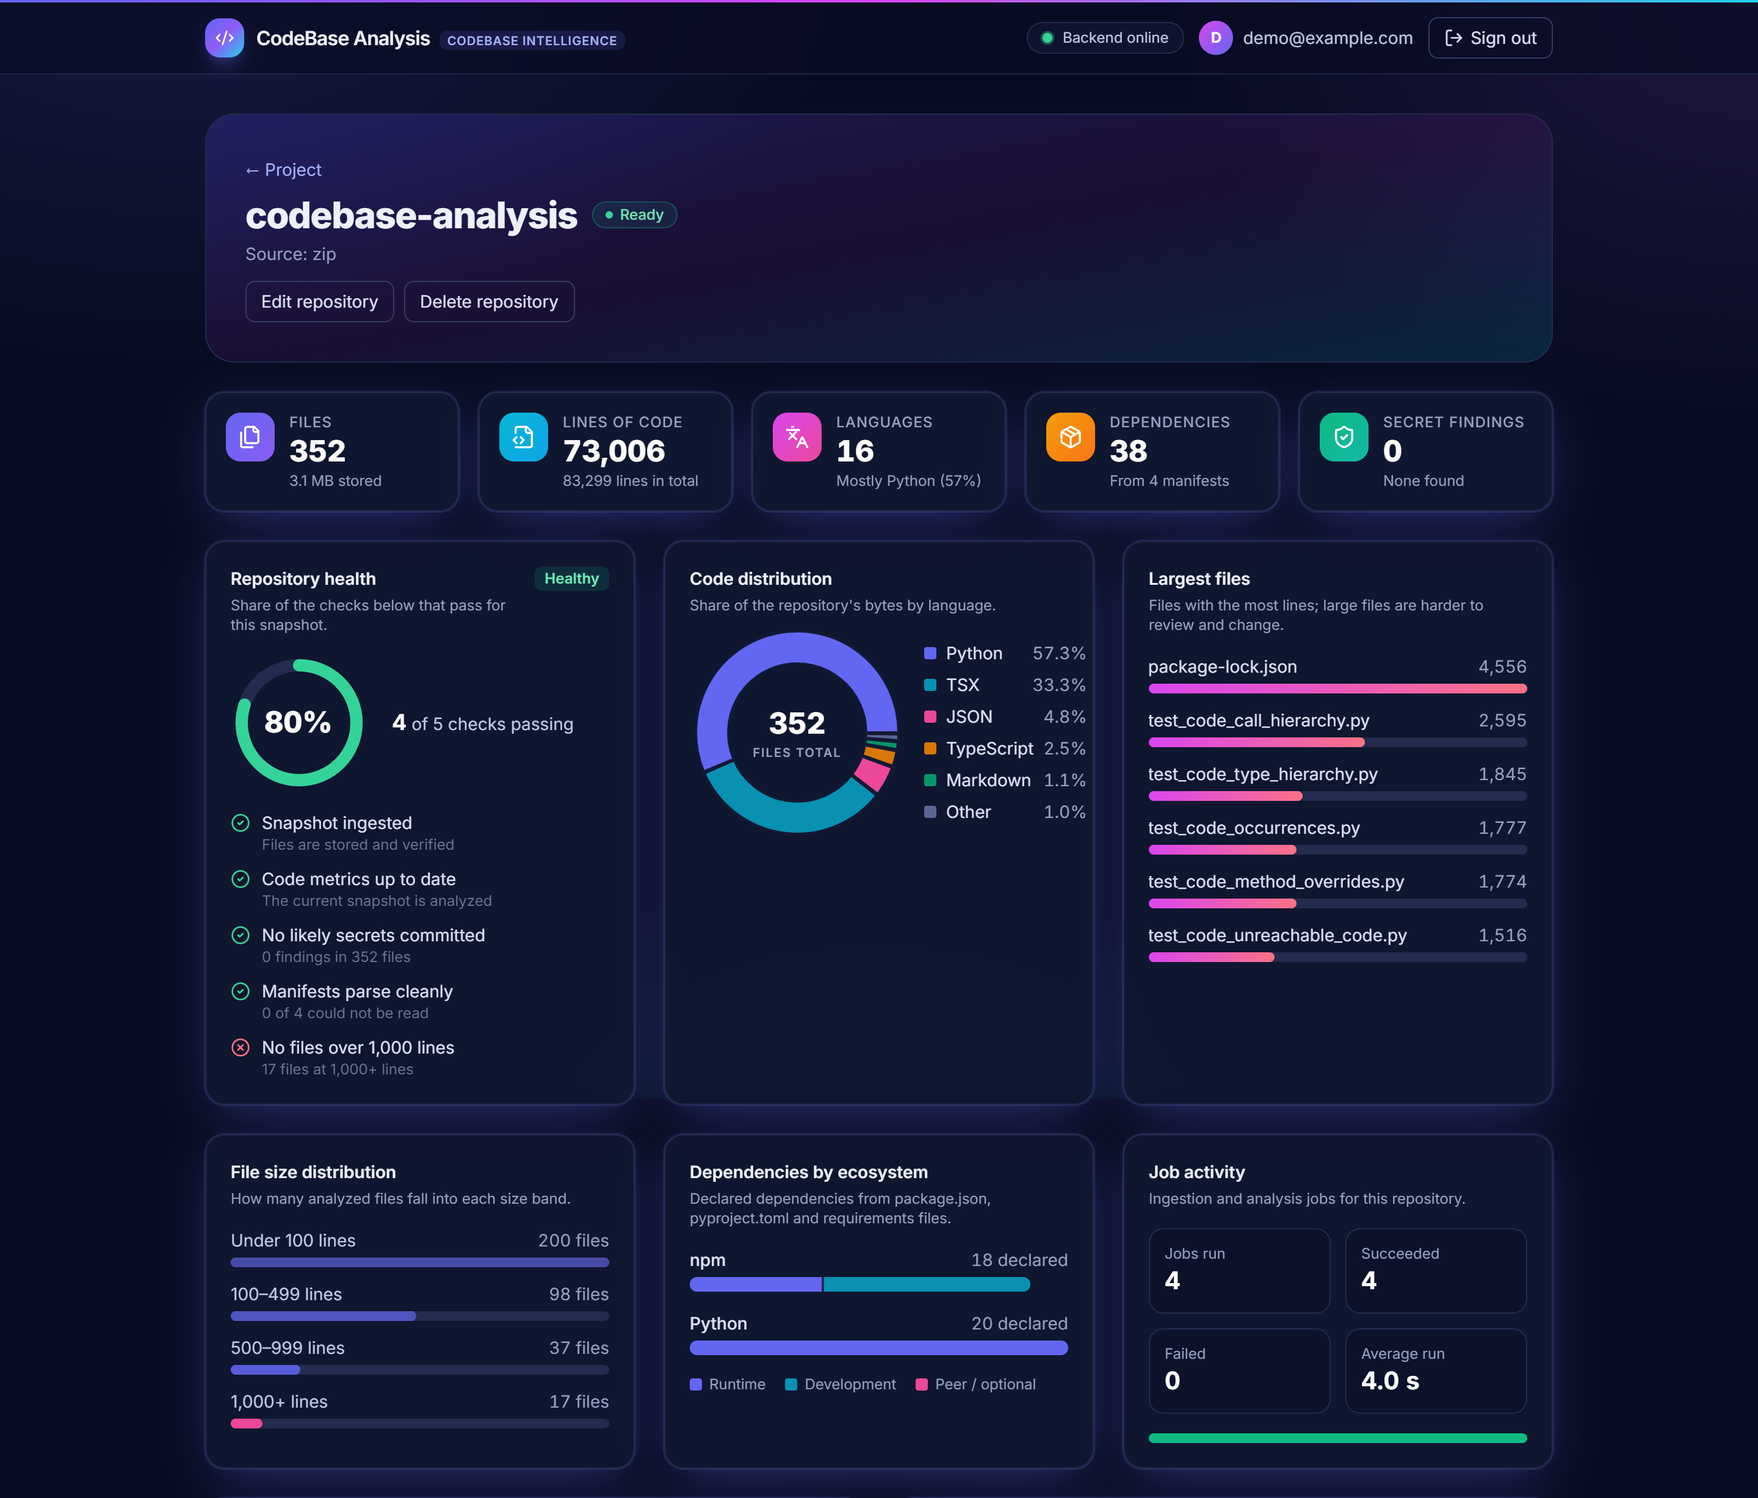
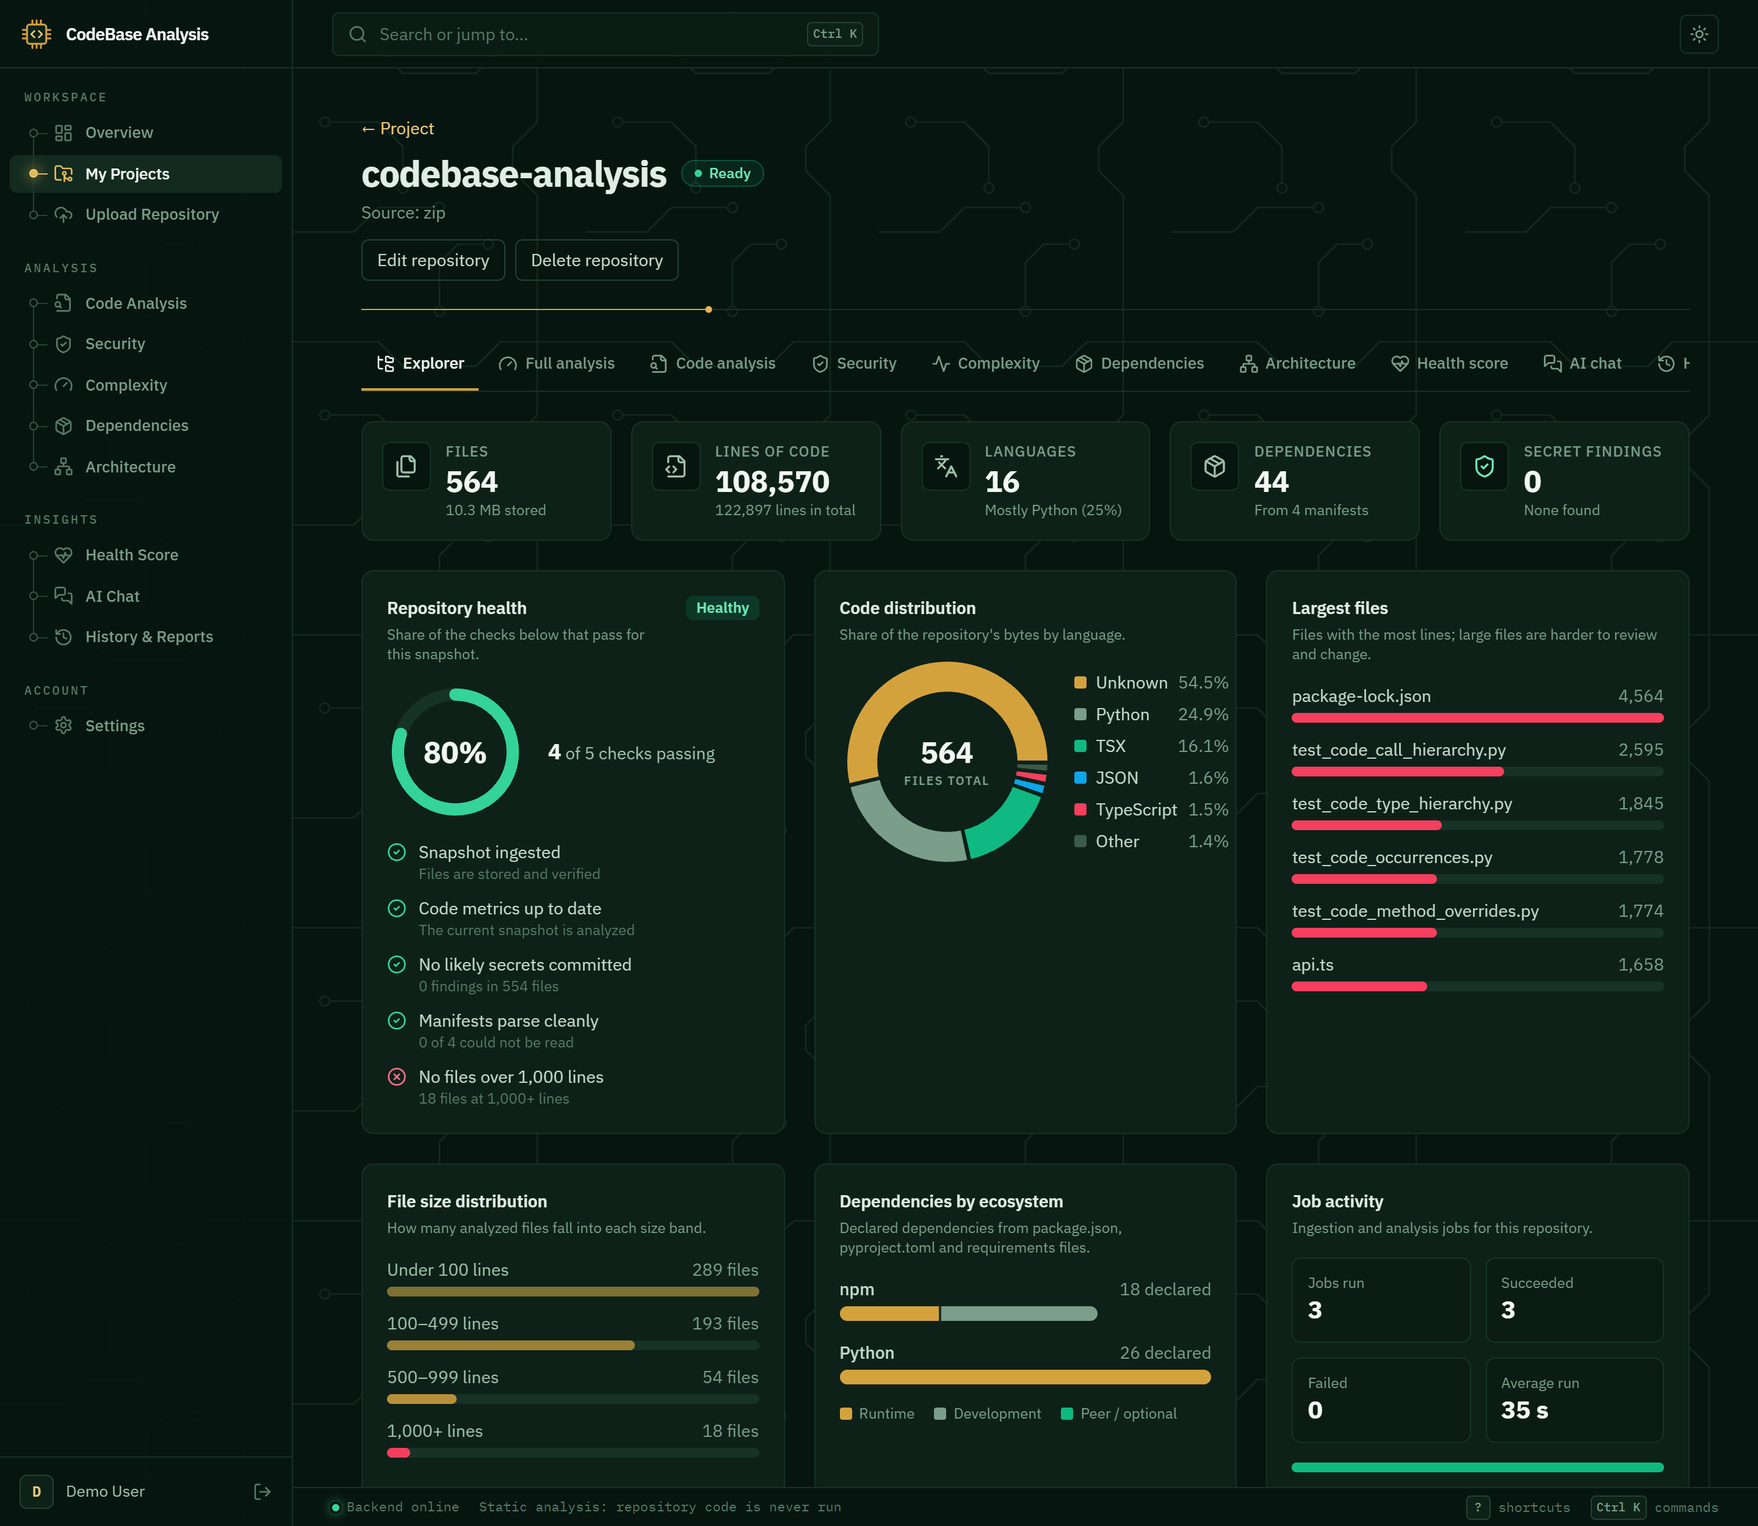
docs: README and screenshots brought up to date
Screenshots: 13 new ones in the current design (the old 7 showed the earlier purple theme),
taken at 2x from a local run with AI turned off: landing, sign-in, overview, upload with the
sample, repository dashboard, file code intelligence, health score, security, code quality,
complexity, dependencies, architecture, and history with a PDF report.

README:
- the live demo link and the sample button at the top;
- an overview of everything one full analysis does;
- the evaluation against Semgrep;
- the analysis tools and the deployment in the stack table;
- the password rules, Caddy's headers and limits, the non-root images and dependency
  monitoring in Security;
- current test numbers;
- a Deployment section;
- a demo walkthrough for the current app.

Stale statements are corrected: "no CI pipeline yet", the bundle-size warning (the bundle is
now split; the largest chunk is 412 kB), CI and code splitting listed as future work. The
pattern-based limits of the security analysis are added to Limitations, and data-flow
analysis and Semgrep to Future Scope.

diff --git a/README.md b/README.md
@@ -7,22 +7,40 @@
 repositories through static analysis, repository intelligence and AI-assisted code
 understanding.**
 
-Self-hosted · FastAPI + React/TypeScript · analyzes Python without ever executing it.
+Self-hosted · FastAPI + React/TypeScript · repository code is never executed.
+
+**Live demo:** https://codebase-analysis.onrender.com (free hosting: the first visit after a
+quiet spell can take about a minute to wake the server). The **Import the sample** button on the
+Upload page loads a small repository with planted problems, so there is something to analyze
+straight away.
+
+![CodeBase Analysis: repository dashboard](docs/screenshots/05-repository.png)
 
 ## Overview
 
-Import a repository as a ZIP upload or a public GitHub archive, then explore it in the
-browser:
-- browse and search the code;
-- navigate Python code across files;
-- run five static diagnostics;
-- review code metrics, declared dependencies and likely committed secrets.
+Import a repository as a ZIP upload or a public GitHub archive. One **full analysis** then
+checks it in the background and keeps every run in its history:
+- **code quality**: bug risks, unused and dead code, duplication, naming, documentation;
+- **security**: committed secrets, injection and XSS risks, insecure settings and containers,
+  mapped to the OWASP Top 10;
+- **complexity and maintainability** of every function and file;
+- **dependencies**: outdated packages and known vulnerabilities (OSV.dev);
+- **architecture**: components, the imports between them, routes, data stores and
+  infrastructure, drawn as a diagram;
+- a **health score** from 0 to 100 that shows how it was calculated and how to raise it.
 
-An optional feature explains a single file through Anthropic's API or Google Gemini (which has a
-free tier).
+Each analysis can be saved as a **PDF report**. You can also browse and search the code,
+navigate Python across files, and run five static diagnostics. Two optional AI features need an
+Anthropic or Google Gemini key: an **AI chat** that answers questions about the repository with
+citations to the exact lines, and a one-file explanation.
 
-Every analysis reads the stored files and parses Python with the standard-library `ast` and
-`tokenize` modules. Analyzed code is never executed, imported or compiled to bytecode.
+Analyzed code is never executed, imported or installed. Python is parsed with the
+standard-library `ast` and `tokenize` modules, and the external analyzers (Ruff, Bandit,
+Lizard, Radon) read a private copy of the files.
+
+How accurate is the security analysis? On a labelled benchmark it was compared with Semgrep:
+precision 0.868, recall 0.708 and F1 0.780, against Semgrep's 0.932, 0.631 and 0.752. The
+method and the limitations are in [docs/EVALUATION.md](docs/EVALUATION.md).
 
 ## Problem Statement
 
@@ -45,7 +63,7 @@ guesses.
 
 | Area | Capabilities |
 | --- | --- |
-| Ingestion | ZIP upload or public GitHub archive, from one Upload Repository page; background jobs with status; pending jobs can be cancelled |
+| Ingestion | ZIP upload or public GitHub archive, from one Upload Repository page, or one click to import the sample repository; background jobs with status; pending jobs can be cancelled. File contents are also kept in the database, so a host that wipes its disk (such as Render's free plan) never needs the ZIP uploaded again |
 | Full analysis | One background run analyzes a repository snapshot (dependency folders such as `node_modules/` and build output excluded) and stores the results; every run is kept in the repository's history |
 | Overview | Totals across all your repositories from their latest stored runs: projects, repositories, lines of code, analyses, active jobs, language distribution, recent analyses and each repository's latest health score (lowest first) |
 | Architecture | Each full analysis also maps the architecture: components (directories) and the imports between them in an interactive diagram, dependency cycles, technologies and data stores, API routes, entry points, Dockerfiles, Docker Compose services, CI and deployment files, and observations such as a layered structure or circular dependencies. Every item links to the file and line it comes from |
@@ -78,14 +96,18 @@ Browser: React SPA (Vite dev server, http://127.0.0.1:5173)
    ▼
 FastAPI on uvicorn (http://127.0.0.1:8000)
    │  authentication → ownership → rate limit (search, analyses) → service
-   ├──► PostgreSQL 16: users, projects, repositories, files (with SHA-256),
-   │                   analysis jobs, file metrics
+   ├──► PostgreSQL 16: users, projects, repositories, files (with SHA-256) and their
+   │                   compressed contents, jobs, analysis runs and results, reports, chats
    ├──► Redis 7: arq job queue and rate-limit counters
-   │      └──► arq worker: ingestion, code metrics, maintenance (every 5 minutes)
+   │      └──► arq worker: ingestion, full analysis, code metrics, maintenance (every 5 minutes)
    ├──► DATA_DIR/repositories/<repository_id>/: extracted files, read only through
-   │                                            the verified reader
-   └──► Anthropic or Gemini API (optional): file explanations
+   │                                            the verified reader (rebuilt from the
+   │                                            database if the disk was wiped)
+   └──► Anthropic or Gemini API (optional): the AI chat and file explanations
 ```
+
+In production one container runs everything behind Caddy, which serves the built frontend,
+passes `/api` to the backend and adds the security headers: see [Deployment](#deployment).
 
 **An analysis request**
 1. The frontend sends the bearer token with every request to its own `/api/v1`.
@@ -109,14 +131,17 @@ FastAPI on uvicorn (http://127.0.0.1:8000)
 | Layer | Technologies |
 | --- | --- |
 | Backend | Python 3.12, FastAPI, SQLAlchemy (async, asyncpg), Alembic, PostgreSQL 16, Redis 7, arq, Pydantic, PyJWT, argon2-cffi, ReportLab (PDF reports) |
-| Frontend | React 18, TypeScript, Vite, Tailwind CSS, TanStack Query, React Router, Axios |
-| Analysis | Python standard library: `ast`, `tokenize` (plus `json` and `tomllib` for manifests) |
-| Testing | pytest, ruff, mypy, Vitest, Testing Library |
+| Frontend | React 18, TypeScript, Vite, Tailwind CSS, TanStack Query, React Router, Axios, Recharts |
+| Analysis | Python standard library: `ast`, `tokenize` (plus `json` and `tomllib` for manifests); Ruff (code quality), Bandit (Python security), Lizard and Radon (complexity and maintainability); PyPI, npm and OSV.dev for dependency versions and vulnerabilities |
+| Testing | pytest, ruff, mypy, Vitest, Testing Library; GitHub Actions runs everything on each push |
+| Deployment | Docker (non-root containers), Caddy, Render (free plan) with a Neon PostgreSQL database |
 | Local infrastructure | Docker Compose for PostgreSQL and Redis (development only) |
 
 ## Security
 
-- **Passwords**: hashed with Argon2 (argon2-cffi).
+- **Passwords**: hashed with Argon2 (argon2-cffi). The rules follow NIST SP 800-63B:
+  - 8 to 128 characters (anything longer is refused without being hashed);
+  - not a commonly used password, not too simple, and not the account's email.
 - **Authentication**: JWT bearer tokens (PyJWT).
   - Signed with `SECRET_KEY` using HS256 by default.
   - The `sub` and `exp` claims are required, and tokens last 60 minutes by default.
@@ -168,6 +193,18 @@ FastAPI on uvicorn (http://127.0.0.1:8000)
   - CORS accepts exact origins only.
   - `SECRET_KEY` must be at least 32 characters, and the placeholder value is rejected in
     production.
+  - Caddy sends these headers:
+    - a strict Content-Security-Policy (scripts only from the site itself);
+    - HSTS, Permissions-Policy, Cross-Origin-Opener-Policy, `X-Frame-Options: DENY` and
+      `nosniff`.
+  - Caddy also enforces these limits:
+    - request bodies are capped at 2 MB, except repository uploads;
+    - hidden paths such as `/.env` or `/.git` get a plain 404.
+  - Both production images run as an unprivileged user, never as root.
+- **Dependency monitoring**:
+  - Dependabot proposes minor and patch updates every week.
+  - A GitHub Actions audit checks every pinned package against the public vulnerability
+    databases, on each push and every week.
 - **AI boundary**: explanations and the chat are off unless `ANTHROPIC_API_KEY` or `GEMINI_API_KEY` is set.
   - Only the requested, verified file (at most 64 KiB) is sent, always to
     `https://api.anthropic.com` or `https://generativelanguage.googleapis.com`.
@@ -249,12 +286,12 @@ link to their lines and are capped at 500 per diagnostic, with exact counts. Fil
 
 ## Testing & Quality Engineering
 
-Results at the final development commit:
+Results at the latest commit (23 November 2026):
 
 | Check | Result |
 | --- | --- |
-| Frontend tests (Vitest, Testing Library, jsdom) | 1,380 passing in 49 files |
-| Backend tests (pytest) | 3,099 passing in 53 files; 30 skipped on Windows, where creating symlinks needs a privilege |
+| Frontend tests (Vitest, Testing Library, jsdom) | 1,486 passing in 57 files |
+| Backend tests (pytest) | 3,217 passing in 56 files on Linux; 34 skipped there are Windows-only tests (directory junctions) |
 | TypeScript typecheck and production build | Passing |
 | `ruff check` and mypy | Passing |
 | Continuous integration | GitHub Actions runs every check above on each push and pull request, on Linux with real PostgreSQL and Redis ([tests.yml](.github/workflows/tests.yml)) |
@@ -280,50 +317,85 @@ Results at the final development commit:
 
 ## Screenshots
 
+Taken from a local run in the default dark theme. "codebase-analysis" is this repository
+analyzing itself; "shop-api (sample)" is the built-in sample, whose keys and passwords are all
+fake.
+
+**Landing page**
+
+![Landing page](docs/screenshots/01-landing.png)
+
 **Sign in**, with a link to reset a forgotten password by email
 
-![Sign-in page](docs/screenshots/01-sign-in.png)
+![Sign-in page](docs/screenshots/02-sign-in.png)
 
-**Password reset request**
+**Overview**: totals across every repository, languages, recent analyses and each repository's
+health score
 
-![Forgot-password page](docs/screenshots/02-forgot-password.png)
+![Overview](docs/screenshots/03-overview.png)
 
-**Projects dashboard**
+**Upload repository**: a ZIP or a public GitHub repository, or the one-click sample
 
-![Projects dashboard](docs/screenshots/03-projects.png)
+![Upload repository](docs/screenshots/04-upload.png)
 
-**Project with its repositories**
-
-![Project page](docs/screenshots/04-project.png)
-
-**Repository dashboard**: headline numbers, a health score from five checks, code distribution,
-largest files, file sizes, dependencies and job activity (this repository analyzing itself)
+**Repository dashboard**: headline numbers, health checks, code distribution, largest files,
+file sizes, dependencies and job activity
 
 ![Repository dashboard](docs/screenshots/05-repository.png)
 
-**Code intelligence on one file**: outline, resolved imports, importers and the unused-imports
-diagnostic
+**Code intelligence on one file**: outline, imports resolved to repository files, and the
+unused-imports diagnostic
 
-![File analysis](docs/screenshots/06-file-analysis.png)
+![File code intelligence](docs/screenshots/06-file-intelligence.png)
 
-**Code metrics**
+**Health score**: six dimensions, each with its calculation and how to raise it
 
-![Code metrics](docs/screenshots/07-code-metrics.png)
+![Health score](docs/screenshots/07-health-score.png)
+
+**Security**: findings by severity and confidence, mapped to the OWASP Top 10 (the sample)
+
+![Security findings](docs/screenshots/08-security.png)
+
+**Code quality**: issues by category and severity, with the files that have the most
+
+![Code quality](docs/screenshots/09-code-quality.png)
+
+**Complexity**: cyclomatic complexity of every function and maintainability of every file
+
+![Complexity](docs/screenshots/10-complexity.png)
+
+**Dependencies**: outdated packages and known vulnerabilities from OSV.dev (the sample)
+
+![Dependencies](docs/screenshots/11-dependencies.png)
+
+**Architecture**: components in layers, the imports between them, and observations that link to
+their evidence
+
+![Architecture](docs/screenshots/12-architecture.png)
+
+**History and reports**: every analysis with its headline numbers, and the PDF reports created
+from them
+
+![History and reports](docs/screenshots/13-history.png)
 
 ## Demo
 
-The intended workflow, in about five minutes:
+Try it at https://codebase-analysis.onrender.com. The intended workflow takes about five
+minutes:
 
-**Login → Project → Repository → Ingestion → Browse → Search → Code Intelligence →
-Diagnostics → Repository Analysis → Optional AI Explanation**
+**Sign up → Import → Full analysis → Health score → Findings → Report**
 
-1. Sign in, create a project, and add a repository from a ZIP or a public GitHub URL.
-2. Start ingestion and watch the job move from pending to completed.
-3. Browse the file tree, filter it by path, and search code and symbols.
-4. Open a Python file: show its outline, go to a definition in another file, and find
-   references.
-5. Run the five diagnostics, then review code metrics, dependencies and the secret scan.
-6. If configured, explain the file with Anthropic or Gemini.
+1. Create an account. On **Upload Repository**, click **Import the sample**, or upload your
+   own ZIP or a public GitHub URL.
+2. Open the repository and run a **full analysis**. Every stage shows its progress.
+3. Open the **Health score** to see the six dimensions, how each was calculated and what would
+   raise it.
+4. Follow the links to the **Security**, **Code analysis**, **Complexity**, **Dependencies**
+   and **Architecture** pages. Every finding links to its file and line in the explorer.
+5. In the explorer, open a Python file to see its outline and imports, go to a definition, and
+   run the diagnostics.
+6. Create a **PDF report** from **History & Reports**. If an AI key is configured, ask the
+   **AI chat** about the code.
 
 <!-- Demo video: add the link to the recorded walkthrough here -->
 
@@ -490,25 +562,44 @@ All endpoints are under `/api/v1`. Repository endpoints share the prefix
   expires. Resetting a password does not end sessions that are already signed in.
 - **Navigation**: files and lines are not reflected in the URL, so they cannot be shared as
   links.
-- **Tooling**: there is no CI pipeline yet, and ESLint is not installed, so `npm run lint`
-  fails.
-- **Bundle size**: the main frontend bundle is about 739 kB, above Vite's 500 kB warning.
-- **Deployment**: single-server only. The root `docker-compose.yml` is for local development;
-  for hosting, see [DEPLOY.md](DEPLOY.md) (Railway), [DEPLOY-ORACLE.md](DEPLOY-ORACLE.md)
-  (free, on an Oracle Cloud Always Free server) or [DEPLOY-RENDER.md](DEPLOY-RENDER.md)
-  (free, no card: Render with a Neon database; it sleeps when idle, and uploaded files are kept
-  in the database and restored automatically when it wakes).
+- **Security analysis** matches known patterns, through Bandit and the app's own rules, without
+  following data through the program. It does not find path traversal, server-side request
+  forgery or open redirects. It is a review aid, never proof that a project is secure; see
+  [docs/EVALUATION.md](docs/EVALUATION.md).
+- **Tooling**: ESLint is not installed, so `npm run lint` fails. Type checking, tests and the
+  build run in CI.
+- **Deployment**: single-server only (see [Deployment](#deployment)). On Render's free plan the
+  service sleeps after 15 idle minutes; a GitHub Actions job pings it every 10 minutes to keep
+  it awake.
+
+## Deployment
+
+The live demo runs on **Render's free plan** with a **Neon** PostgreSQL database. It is
+built from [render.yaml](render.yaml) and [deploy/render/Dockerfile](deploy/render/Dockerfile):
+one container holding Caddy, the API, the worker and a private Redis.
+- Render wipes its disk when the service restarts, sleeps or redeploys. Uploaded files are also
+  kept in the database and restored automatically, so a ZIP never has to be uploaded again.
+- Every push to `main` redeploys it, and the database migrations run on start.
+
+Other ways to host it:
+- [DEPLOY-RENDER.md](DEPLOY-RENDER.md): the Render and Neon setup, step by step (free, no card).
+- [DEPLOY.md](DEPLOY.md): Railway, using the root [Dockerfile](Dockerfile).
+- [DEPLOY-ORACLE.md](DEPLOY-ORACLE.md): an Oracle Cloud Always Free server.
+
+The root `docker-compose.yml` is for local development only.
 
 ## Future Scope
 
 Planned future work, not yet implemented:
-- A CI pipeline: tests, typecheck, ruff, mypy and ESLint.
+- Data-flow (taint) analysis from request inputs: path traversal, SSRF and open redirects.
+- Optionally running Semgrep inside an analysis, as Bandit runs today. The evaluation shows the
+  two tools complement each other.
+- ESLint in CI.
 - Shareable links to a file and line.
 - A repository-wide diagnostics dashboard.
-- An import graph view.
+- A file-level import graph (the architecture diagram shows imports between directories).
 - Type-informed references, such as method references.
 - Refresh tokens.
-- Frontend bundle optimization (code splitting).
 
 ## License
 
